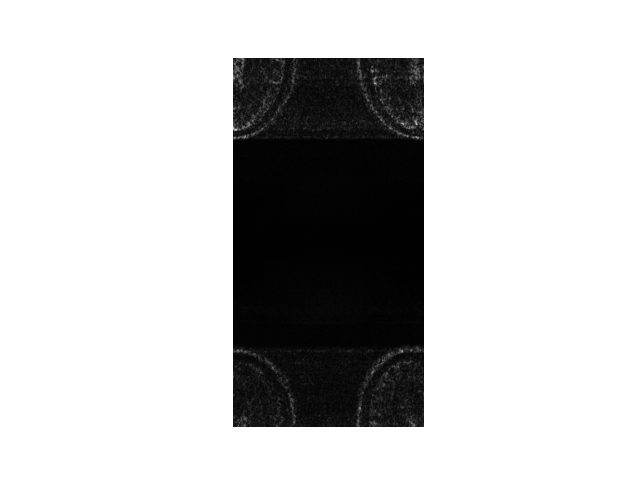
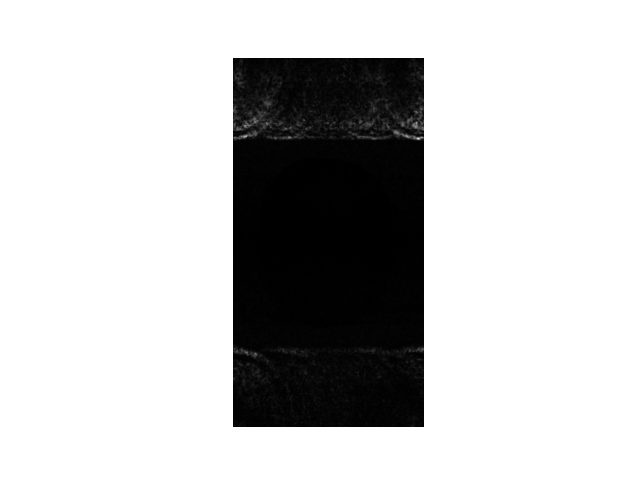
fftshift fix

diff --git a/my_CDLNet/mri_utils.py b/my_CDLNet/mri_utils.py
@@ -20,7 +20,7 @@ def mri_encoding(x, acceleration_map, smaps):
     x_coils = smaps[:, :]* x[None, :, :]
     breakpoint()
     # x_coils is C x N x N
-    y_coils = (fft.fft2(x_coils, norm = 'ortho'))
+    y_coils = fft.fftshift(fft.fft2(x_coils, norm = 'ortho'), dim = (-2, -1))
     # y_coils is C x N x N
     mask = acceleration_map
     y_mask = torch.complex(mask[None, :, :], torch.zeros_like(mask[None, :, :])) @ y_coils
@@ -31,7 +31,7 @@ def mri_decoding(y, acceleration_map, smaps):
     # Apply mask to each channel of y
     # y_mask = torch.einsum('jj, ijk -> ijk', acceleration_map, y)
     # Apply ifft2
-    x_coils = (fft.ifft2(y, norm = 'ortho'))
+    x_coils = fft.fftshift(fft.ifft2(y, norm = 'ortho'), dim = (-2, -1))
     # Coil combination
     x = torch.einsum("ijk, ijk -> jk", smaps.conj(), x_coils)
     return x
